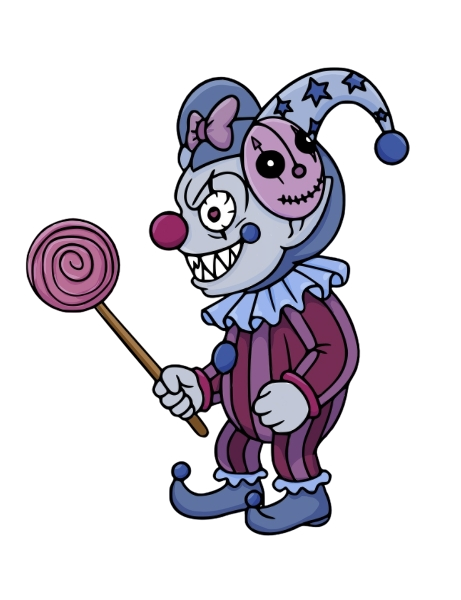
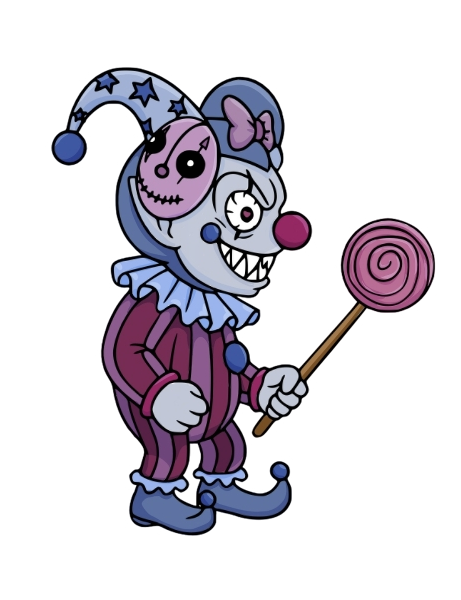
敵の画像を反転できるように、それに伴いpngを右向き立ち絵に変更

diff --git a/Jam/src/Presentation/EnemyManager.h b/Jam/src/Presentation/EnemyManager.h
@@ -21,19 +21,14 @@ namespace Jam::Presentation
 			{
 				//Print << U"[EnemyManager] ⚠ Failed to load animator for enemy ID " << id;
 			}
-			else
-			{
-				//Print << U"[EnemyManager] ✅ Animator loaded for enemy ID " << id;
-			}
 			m_animators[id] = animator;
 
-			// 🔹 Enemy → Animator イベント接続
+			// :small_blue_diamond: Enemy → Animator イベント接続
 			enemy->setOnAnimationChange([this, id](const s3d::String& animName) {
 				auto it = m_animators.find(id);
 				if (it != m_animators.end())
 				{
 					it->second.SetBoolExclusive(animName);
-					//Print << U"[EnemyManager] ▶ Enemy " << id << U" animation changed to: " << animName;
 				}
 			});
 			return id;
@@ -54,16 +49,16 @@ namespace Jam::Presentation
 			}
 		}
 
-		void draw() const
+		void draw()
 		{
-
 			for (auto& [id, enemy] : m_enemies)
 			{
 				if (!enemy->isAlive())
 				{
 					continue;
 				}
-				enemy->draw();//Animationはイベントを送る形をとるが敵のアイテム系はそれぞれが描画
+				//Animationはイベントを送る形をとるが敵のアイテム系はそれぞれが描画
+				enemy->draw();//単体オブジェクトは他に描画を任せたが移植が住んでない→Eyeのビーム
 				auto body = enemy->getPhysicsBody();
 				body->drawFrame(2.0, Palette::Red);
 				if (!body)
@@ -76,6 +71,7 @@ namespace Jam::Presentation
 				auto it = m_animators.find(id);
 				if (it != m_animators.end())
 				{
+					it->second.SetFacingLeft(enemy->isFaceLeft());
 					it->second.Draw(pos);
 				}
 				else

diff --git a/Jam/src/Domain/Enemy/EnemyAI/PatrolAI.h b/Jam/src/Domain/Enemy/EnemyAI/PatrolAI.h
@@ -22,15 +22,20 @@ namespace Jam::Domain::Enemy
 			Vec2 pos = enemy.getPosition();
 			Vec2 dir = (currentTarget - pos).normalized();
 
+			if (dir.x < 0)
+				enemy.setFaceLeft(true);
+			else
+				enemy.setFaceLeft(false);
+
 			enemy.getPhysicsBody()->applyForce(dir * enemy.getStatus().moveSpeed);
 
-			// 🔸 すでにプレイヤーが発見距離内にいる場合は即イベント発火
+			// すでにプレイヤーが発見距離内にいる場合は即イベント発火
 			Vec2 playerPos = enemy.getPlayerPos();
 			double distanceToPlayer = pos.distanceFrom(playerPos);
 			if (distanceToPlayer <= route.foundDistance)
 			{
 				enemy.onAIEvent(EnemyAIEvent::PlayerFound);
-				return; // 即座にChaseAIなどへ遷移させたい場合
+				return;
 			}
 
 			// 巡回目標に到達したら次へ

diff --git a/Jam/src/Domain/Enemy/EnemyBase.h b/Jam/src/Domain/Enemy/EnemyBase.h
@@ -47,6 +47,8 @@ namespace Jam::Domain::Enemy
 		virtual void jump();
 
 		bool isAlive() const override { return m_isAlive; }
+		bool isFaceLeft() const { return m_isFaceLeft; }
+		void setFaceLeft(bool left) { m_isFaceLeft = left; }
 		void takeDamage(const DamageInfo& info)override;
 		double getCurrentHp() const override { return m_status.hp; }
 		// =========================
@@ -122,6 +124,7 @@ namespace Jam::Domain::Enemy
 		virtual Jam::Util::Task onDeath(const DamageInfo& info);
 		virtual void onDestroy(const DamageInfo& info);
 		bool m_isGrounded;
+		bool m_isFaceLeft = false;
 		// =========================
 		// メンバ変数
 		// =========================

diff --git a/Jam/src/Domain/Enemy/EnemyAI/RunAwayAI.h b/Jam/src/Domain/Enemy/EnemyAI/RunAwayAI.h
@@ -29,6 +29,11 @@ namespace Jam::Domain::Enemy
 			Vec2 direction = plPos - enePos;
 			Vec2 velocity = direction.normalized();
 
+			// プレイヤーの方向と反対を向く
+			if (direction.x < 0)
+				enemy.setFaceLeft(false);
+			else
+				enemy.setFaceLeft(true);
 			// プレイヤーと逆方向に移動
 			enemy.getPhysicsBody()->applyForce(
 				-velocity * enemy.getStatus().moveSpeed * setting.moveSpeedFactor

diff --git a/Jam/src/Domain/Enemy/EnemyAI/ChaseAI.h b/Jam/src/Domain/Enemy/EnemyAI/ChaseAI.h
@@ -26,6 +26,11 @@ namespace Jam::Domain::Enemy
 			Vec2 direction = plPos - enePos;
 			Vec2 velocity = direction.normalized();
 
+			if(direction.x < 0)
+				enemy.setFaceLeft(true);
+			else
+				enemy.setFaceLeft(false);
+
 			enemy.getPhysicsBody()->applyForce(velocity * enemy.getStatus().moveSpeed * setting.moveSpeedFactor);
 
 			if (direction.length() <= setting.attackRange)

diff --git a/Jam/src/Domain/Enemy/Spider.cpp b/Jam/src/Domain/Enemy/Spider.cpp
@@ -66,6 +66,11 @@ namespace Jam::Domain::Enemy
 		const Vec2 myPos = getPosition();
 		const double directionX = (playerPos.x > myPos.x) ? 1.0 : -1.0;
 
+		if(directionX < 0)
+			m_isFaceLeft = true;
+		else
+			m_isFaceLeft = false;
+
 		const Vec2 pounceImpulse = {
 			directionX * pounceHorizonalImpulse,
 			-pounceVerticalImpulse

diff --git a/Jam/src/Domain/Enemy/EnemyBase.cpp b/Jam/src/Domain/Enemy/EnemyBase.cpp
@@ -26,12 +26,14 @@ namespace Jam::Domain::Enemy
 	void EnemyBase::moveLeft()
 	{
 		if (!m_isAlive) return;
+		m_isFaceLeft = true;
 		m_body->applyForce({ -m_status.moveSpeed, 0 });
 	}
 
 	void EnemyBase::moveRight()
 	{
 		if (!m_isAlive) return;
+		m_isFaceLeft = false;
 		m_body->applyForce({ m_status.moveSpeed, 0 });
 	}
 
